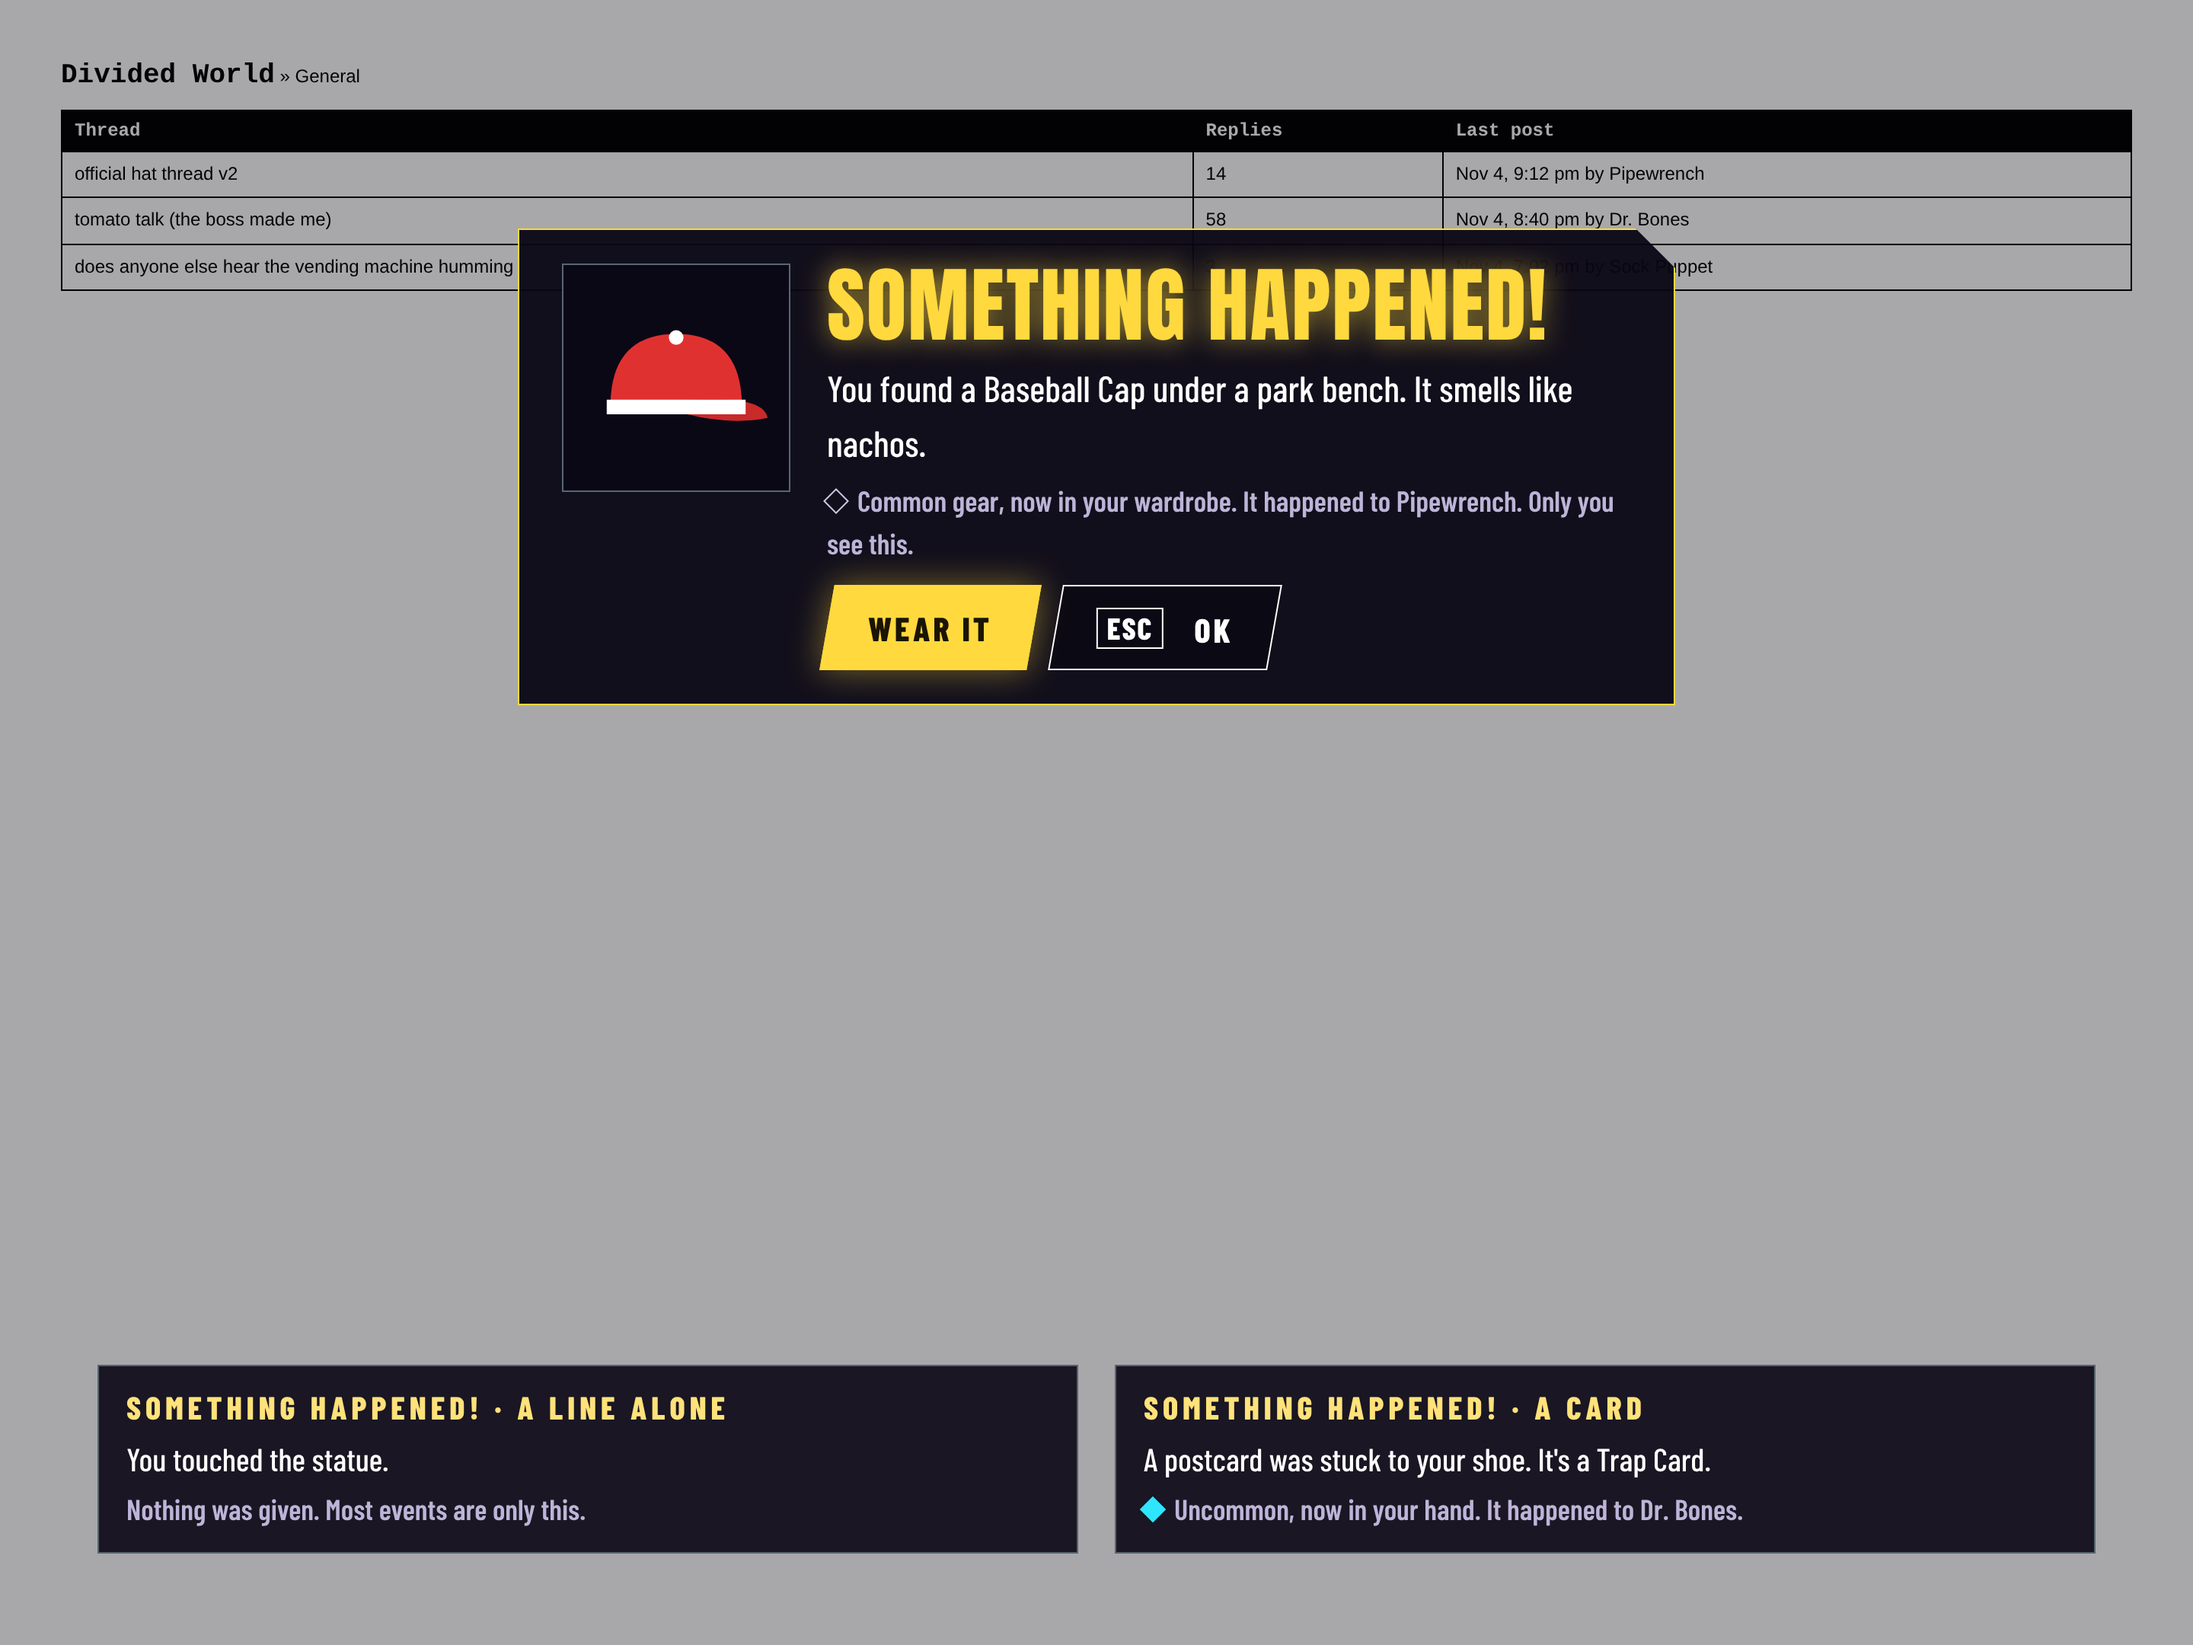
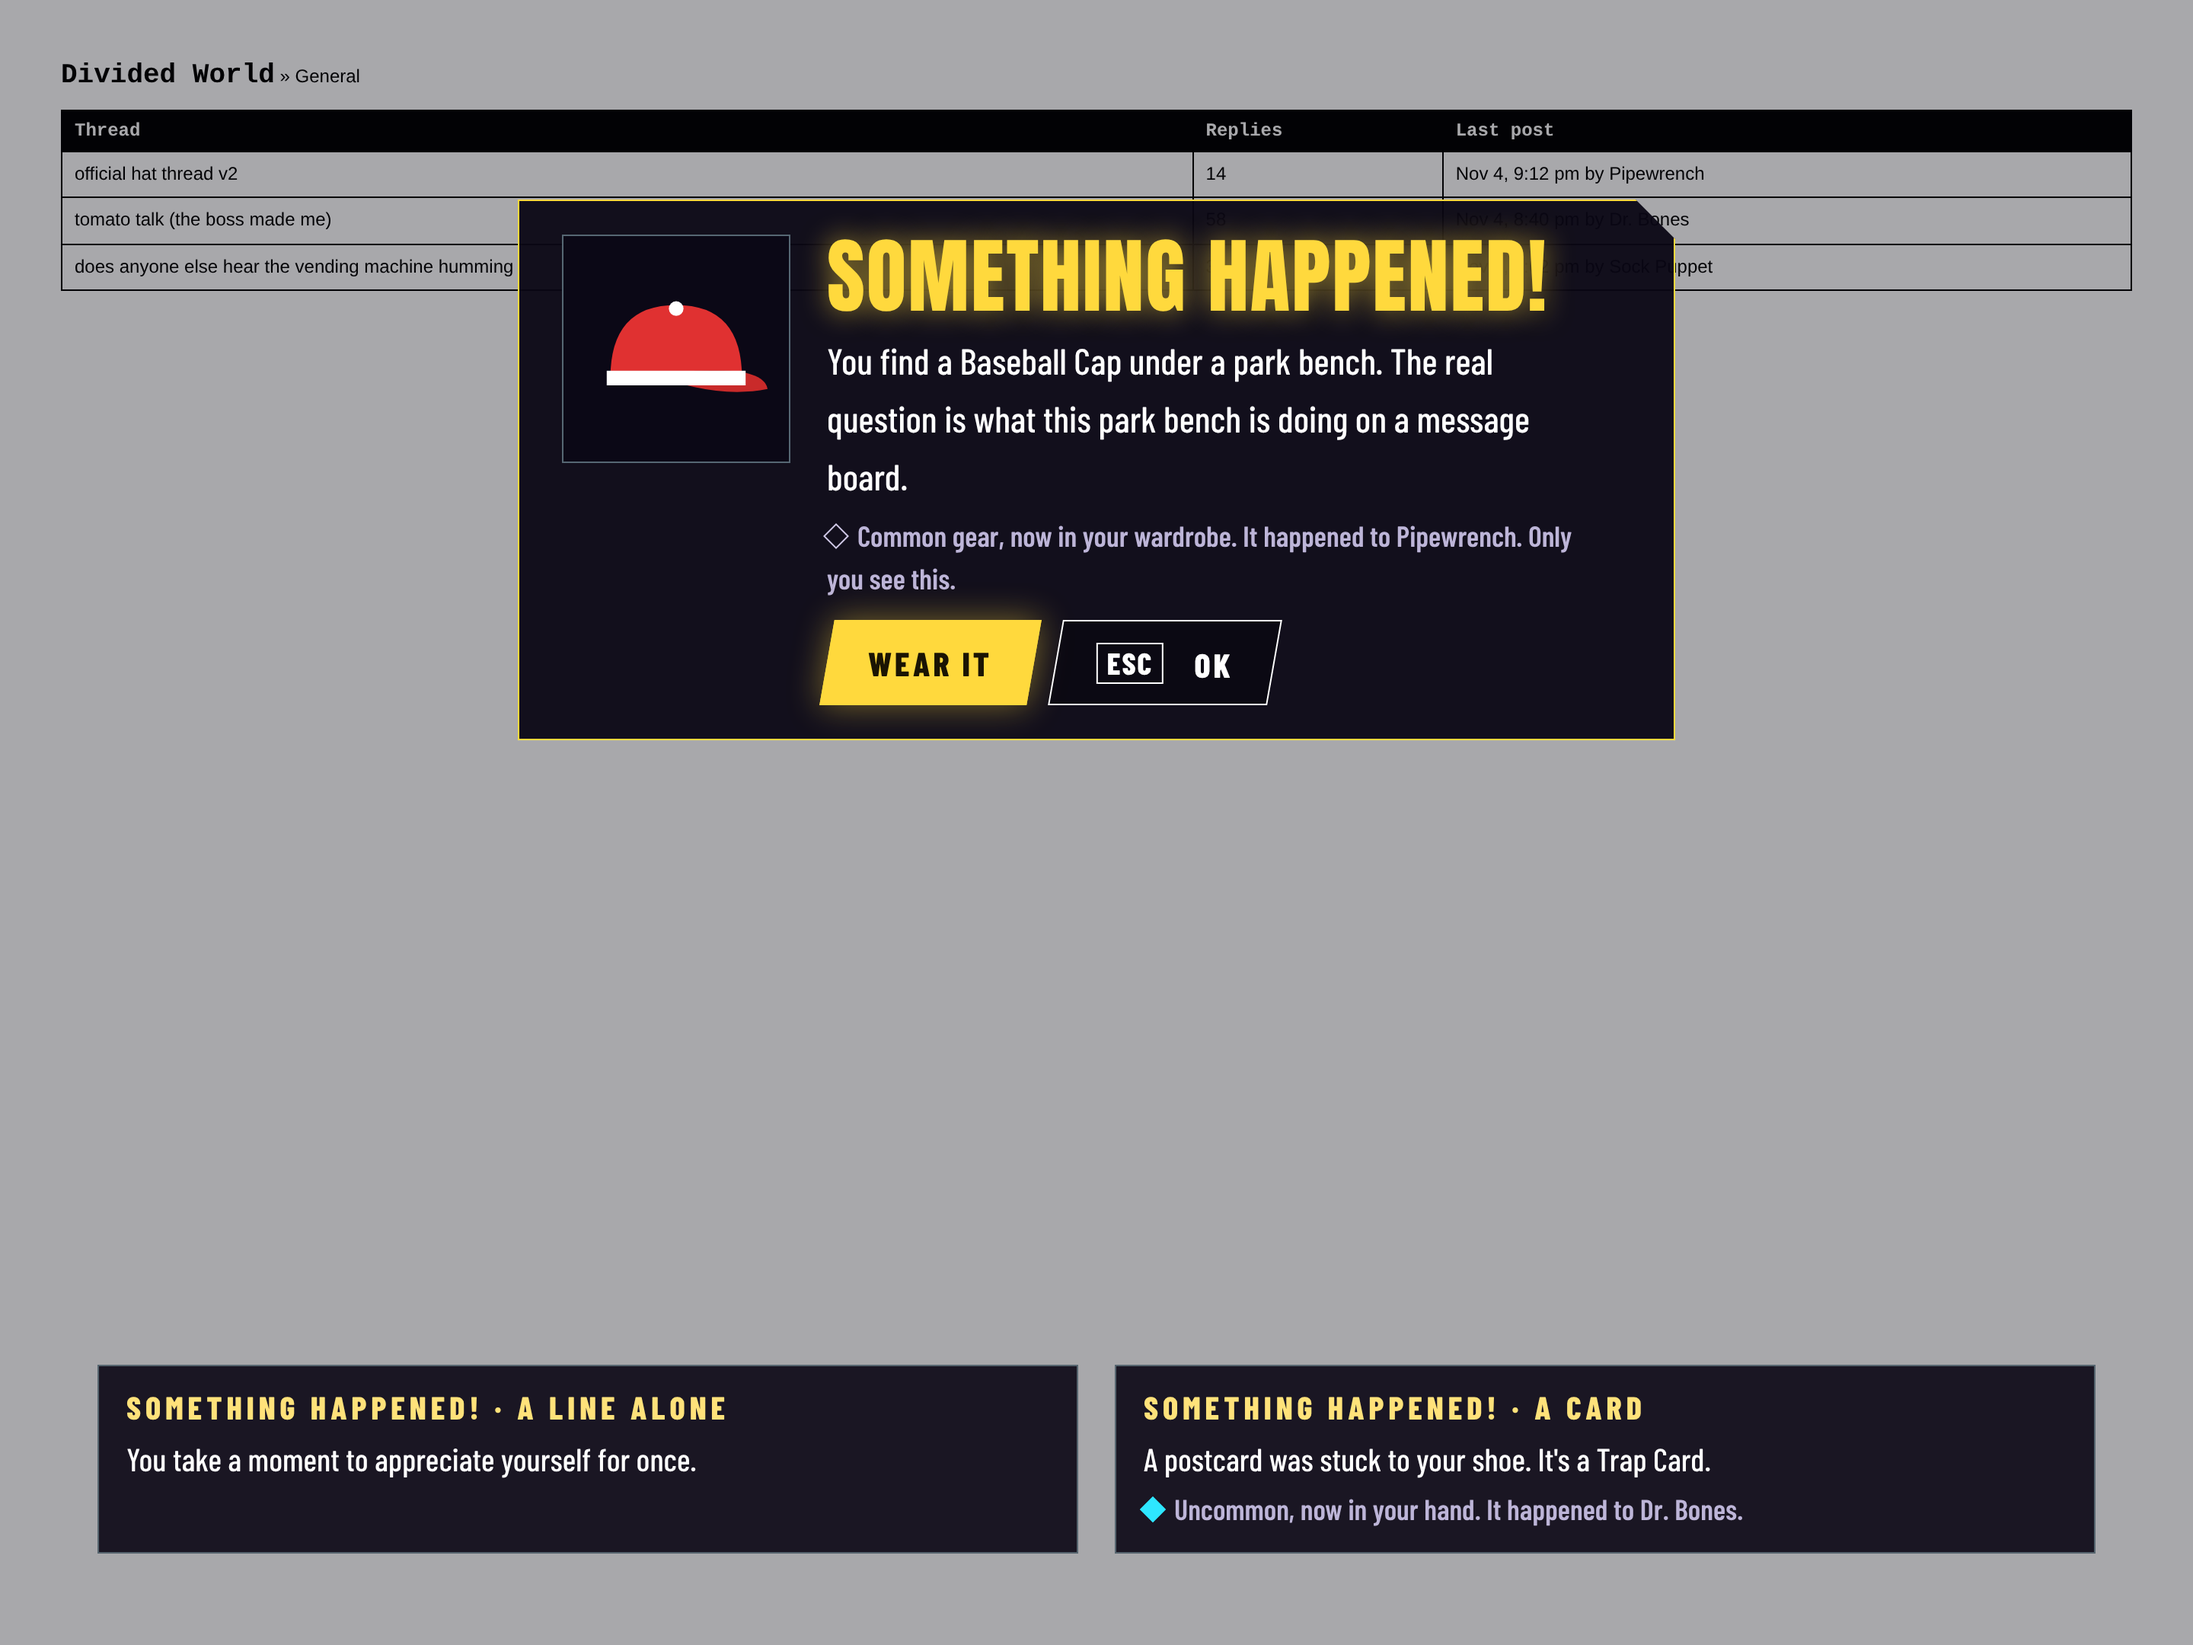
Update the event board to the build's new copy
The Random Event copy in PR #661 is longer, so the gear dialog wraps to three
lines and stands taller than the board drew it. Redraw the board's dialog to
that wrap (line height, text column, top offset) so the board match passes,
drop the removed 'Nothing was given' note from the line-alone card, and use
the new copy in both examples.

Claude-Session: https://claude.ai/code/session_01FiUbYPRPmtw9iJJBaAsnVj

Changed region(s): [[0.2188, 0.1241, 0.7812, 0.4653], [0.0625, 0.8685, 0.3125, 0.9306], [0.25, 0.1861, 0.3438, 0.2792]]

diff --git a/docs/research/2026-11-04-cosmetics/04-event.html b/docs/research/2026-11-04-cosmetics/04-event.html
@@ -12,7 +12,7 @@
   .forum{position:absolute;inset:0;background:#fff;color:#000;font:12px/1.45 Verdana,sans-serif;padding:28px 40px}
   .forum table{border-collapse:collapse;width:100%}.forum td,.forum th{border:1px solid #000;padding:6px 8px;text-align:left}
   .forum th{background:#000;color:#fff;font:bold 12px "Courier New",monospace}
-  .ev{position:absolute;left:50%;top:150px;transform:translateX(-50%);width:760px;background:rgba(10,6,20,.95);border:1px solid var(--ready);box-shadow:0 0 0 1px rgba(201,248,255,.5),0 0 40px rgba(255,217,61,.35);clip-path:polygon(0 0,calc(100% - 26px) 0,100% 26px,100% 100%,0 100%);padding:22px 28px;display:grid;grid-template-columns:150px 1fr;gap:24px;color:var(--text)}
+  .ev{position:absolute;left:50%;top:131px;transform:translateX(-50%);width:760px;background:rgba(10,6,20,.95);border:1px solid var(--ready);box-shadow:0 0 0 1px rgba(201,248,255,.5),0 0 40px rgba(255,217,61,.35);clip-path:polygon(0 0,calc(100% - 26px) 0,100% 26px,100% 100%,0 100%);padding:22px 60px 22px 28px;display:grid;grid-template-columns:150px 1fr;gap:24px;color:var(--text)}
   .ev h2{margin:0;font:54px/1 var(--display);color:var(--ready);letter-spacing:1px;text-shadow:0 0 18px rgba(255,217,61,.6)}
   .ev .pic{width:150px;height:150px;border:1px solid rgba(201,248,255,.4);background:#0b0816;display:flex;align-items:center;justify-content:center}
   .ev .pic svg{width:120px;height:80px}
@@ -88,7 +88,7 @@
     <span class="pic"><svg viewBox="0 0 100 60"><use href="#g-cap"/></svg></span>
     <div>
       <h2 id="evh">SOMETHING HAPPENED!</h2>
-      <p class="body" style="font-size:24px;color:var(--hi);margin:10px 0 6px">You found a Baseball Cap under a park bench. It smells like nachos.</p>
+      <p class="body" style="font-size:24px;line-height:38px;color:var(--hi);margin:10px 0 6px">You find a Baseball Cap under a park bench. The real question is what this park bench is doing on a message board.</p>
       <p class="note" style="margin:0 0 14px"><span class="r-common"><span class="rar"></span></span>Common gear, now in your wardrobe. It happened to Pipewrench. Only you see this.</p>
       <div style="display:flex;gap:14px">
         <button class="btn gold"><b>WEAR IT</b></button>
@@ -98,7 +98,7 @@
   </section>
 
   <div style="position:absolute;left:64px;right:64px;bottom:60px;display:grid;grid-template-columns:1fr 1fr;gap:24px">
-    <div class="mini2"><div class="label" style="color:var(--ready-text)">SOMETHING HAPPENED! &middot; A LINE ALONE</div><p class="body" style="margin:6px 0 0;color:var(--hi)">You touched the statue.</p><p class="note" style="margin:4px 0 0">Nothing was given. Most events are only this.</p></div>
+    <div class="mini2"><div class="label" style="color:var(--ready-text)">SOMETHING HAPPENED! &middot; A LINE ALONE</div><p class="body" style="margin:6px 0 0;color:var(--hi)">You take a moment to appreciate yourself for once.</p></div>
     <div class="mini2"><div class="label" style="color:var(--ready-text)">SOMETHING HAPPENED! &middot; A CARD</div><p class="body" style="margin:6px 0 0;color:var(--hi)">A postcard was stuck to your shoe. It's a Trap Card.</p><p class="note" style="margin:4px 0 0"><span class="r-uncommon"><span class="rar"></span></span>Uncommon, now in your hand. It happened to Dr. Bones.</p></div>
   </div>
 </div>

diff --git a/docs/research/2026-11-04-cosmetics/04-event.src.html b/docs/research/2026-11-04-cosmetics/04-event.src.html
@@ -12,7 +12,7 @@
   .forum{position:absolute;inset:0;background:#fff;color:#000;font:12px/1.45 Verdana,sans-serif;padding:28px 40px}
   .forum table{border-collapse:collapse;width:100%}.forum td,.forum th{border:1px solid #000;padding:6px 8px;text-align:left}
   .forum th{background:#000;color:#fff;font:bold 12px "Courier New",monospace}
-  .ev{position:absolute;left:50%;top:150px;transform:translateX(-50%);width:760px;background:rgba(10,6,20,.95);border:1px solid var(--ready);box-shadow:0 0 0 1px rgba(201,248,255,.5),0 0 40px rgba(255,217,61,.35);clip-path:polygon(0 0,calc(100% - 26px) 0,100% 26px,100% 100%,0 100%);padding:22px 28px;display:grid;grid-template-columns:150px 1fr;gap:24px;color:var(--text)}
+  .ev{position:absolute;left:50%;top:131px;transform:translateX(-50%);width:760px;background:rgba(10,6,20,.95);border:1px solid var(--ready);box-shadow:0 0 0 1px rgba(201,248,255,.5),0 0 40px rgba(255,217,61,.35);clip-path:polygon(0 0,calc(100% - 26px) 0,100% 26px,100% 100%,0 100%);padding:22px 60px 22px 28px;display:grid;grid-template-columns:150px 1fr;gap:24px;color:var(--text)}
   .ev h2{margin:0;font:54px/1 var(--display);color:var(--ready);letter-spacing:1px;text-shadow:0 0 18px rgba(255,217,61,.6)}
   .ev .pic{width:150px;height:150px;border:1px solid rgba(201,248,255,.4);background:#0b0816;display:flex;align-items:center;justify-content:center}
   .ev .pic svg{width:120px;height:80px}
@@ -36,7 +36,7 @@
     <span class="pic"><svg viewBox="0 0 100 60"><use href="#g-cap"/></svg></span>
     <div>
       <h2 id="evh">SOMETHING HAPPENED!</h2>
-      <p class="body" style="font-size:24px;color:var(--hi);margin:10px 0 6px">You found a Baseball Cap under a park bench. It smells like nachos.</p>
+      <p class="body" style="font-size:24px;line-height:38px;color:var(--hi);margin:10px 0 6px">You find a Baseball Cap under a park bench. The real question is what this park bench is doing on a message board.</p>
       <p class="note" style="margin:0 0 14px"><span class="r-common"><span class="rar"></span></span>Common gear, now in your wardrobe. It happened to Pipewrench. Only you see this.</p>
       <div style="display:flex;gap:14px">
         <button class="btn gold"><b>WEAR IT</b></button>
@@ -46,7 +46,7 @@
   </section>
 
   <div style="position:absolute;left:64px;right:64px;bottom:60px;display:grid;grid-template-columns:1fr 1fr;gap:24px">
-    <div class="mini2"><div class="label" style="color:var(--ready-text)">SOMETHING HAPPENED! &middot; A LINE ALONE</div><p class="body" style="margin:6px 0 0;color:var(--hi)">You touched the statue.</p><p class="note" style="margin:4px 0 0">Nothing was given. Most events are only this.</p></div>
+    <div class="mini2"><div class="label" style="color:var(--ready-text)">SOMETHING HAPPENED! &middot; A LINE ALONE</div><p class="body" style="margin:6px 0 0;color:var(--hi)">You take a moment to appreciate yourself for once.</p></div>
     <div class="mini2"><div class="label" style="color:var(--ready-text)">SOMETHING HAPPENED! &middot; A CARD</div><p class="body" style="margin:6px 0 0;color:var(--hi)">A postcard was stuck to your shoe. It's a Trap Card.</p><p class="note" style="margin:4px 0 0"><span class="r-uncommon"><span class="rar"></span></span>Uncommon, now in your hand. It happened to Dr. Bones.</p></div>
   </div>
 </div>
